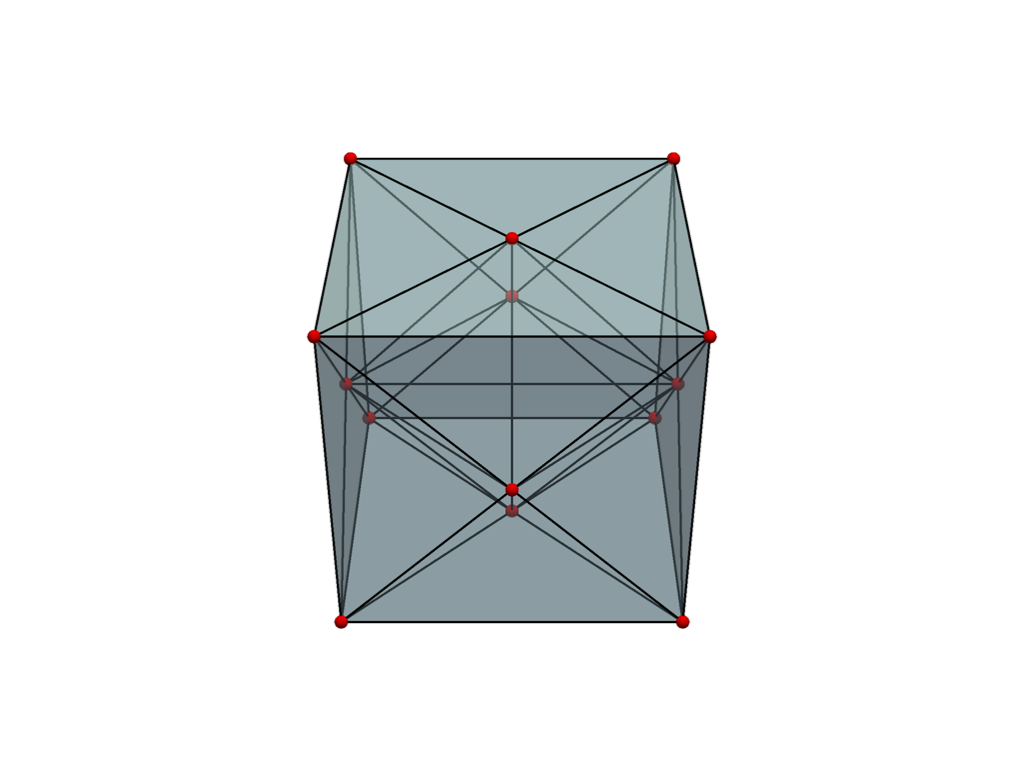
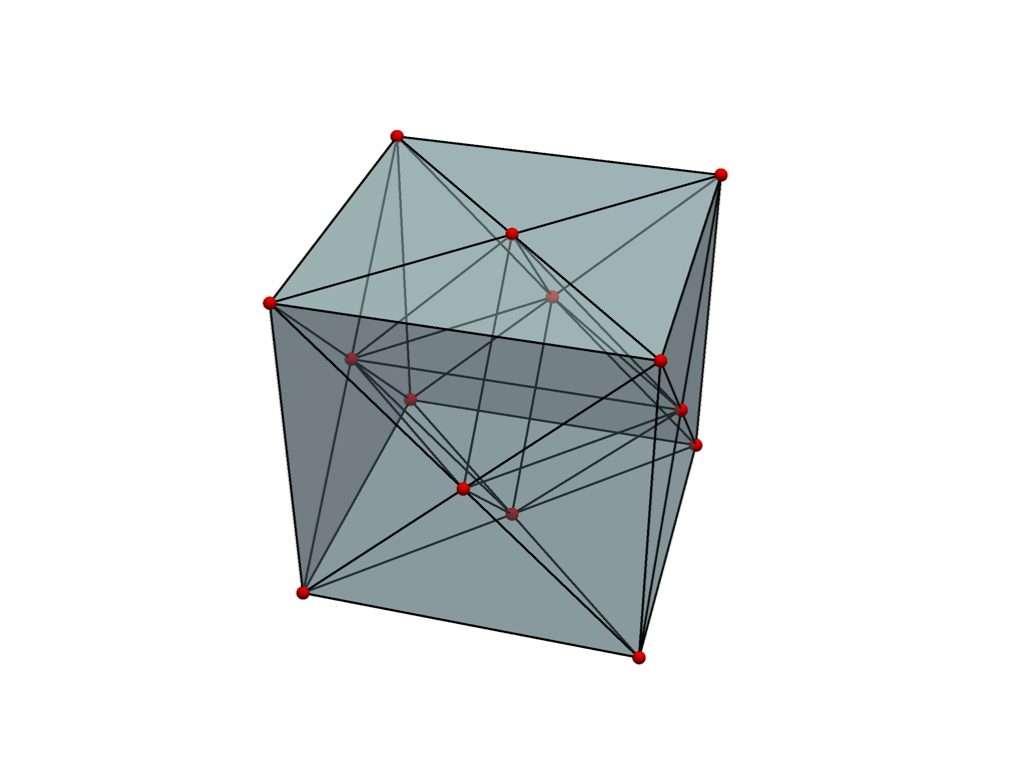
Update

Changed region(s): [[0.25, 0.1562, 0.7188, 0.875], [0.5938, 0.3125, 0.625, 0.3438]]

diff --git a/src/pvgmsh/__init__.py b/src/pvgmsh/__init__.py
@@ -142,7 +142,7 @@ def delaunay_3d(
       Z Bounds:   -5.000e-01, 5.000e-01
       N Arrays:   0
 
-    >>> mesh = mesh.rotate_z(45)
+    >>> mesh = mesh.rotate_z(30)
     >>> plotter = pv.Plotter(off_screen=True)
     >>> _ = plotter.add_mesh(mesh, opacity=0.5)
     >>> edges = mesh.extract_all_edges()
